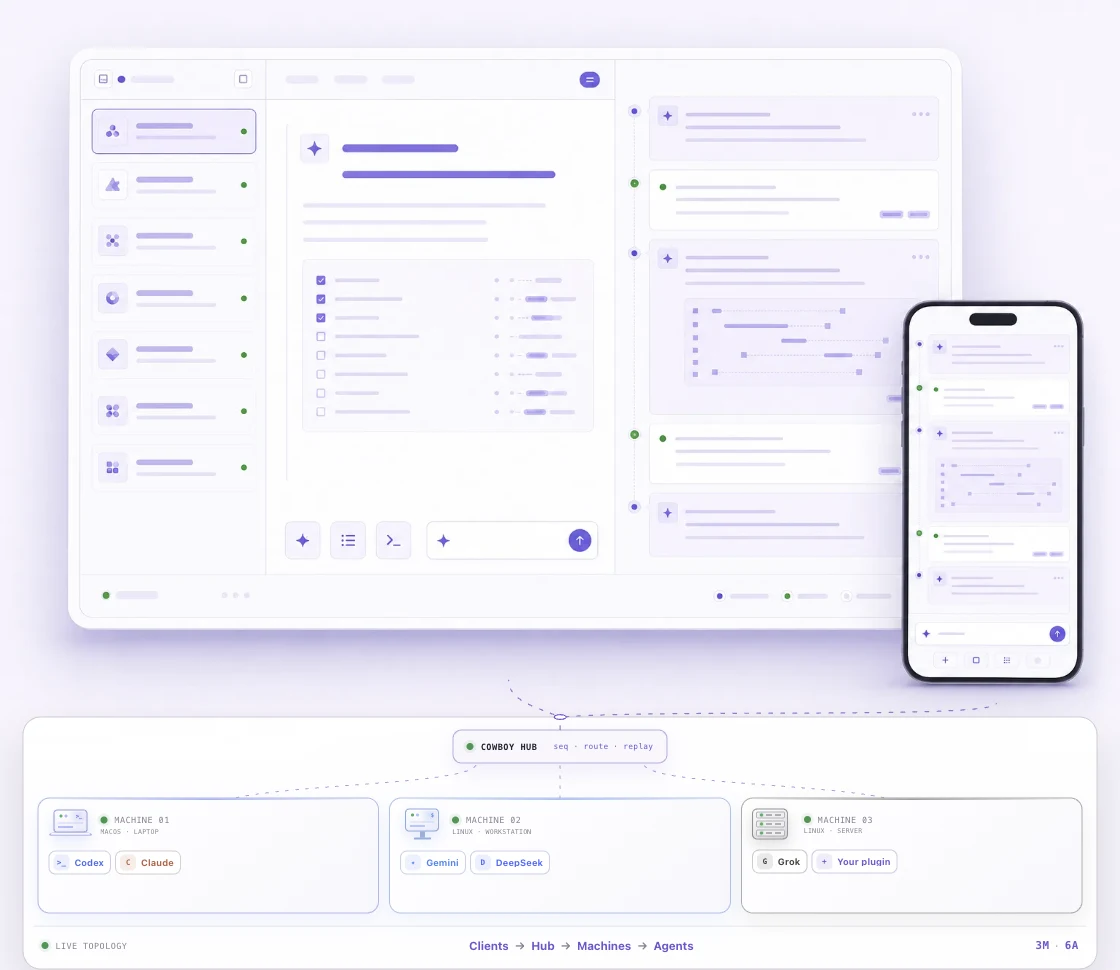
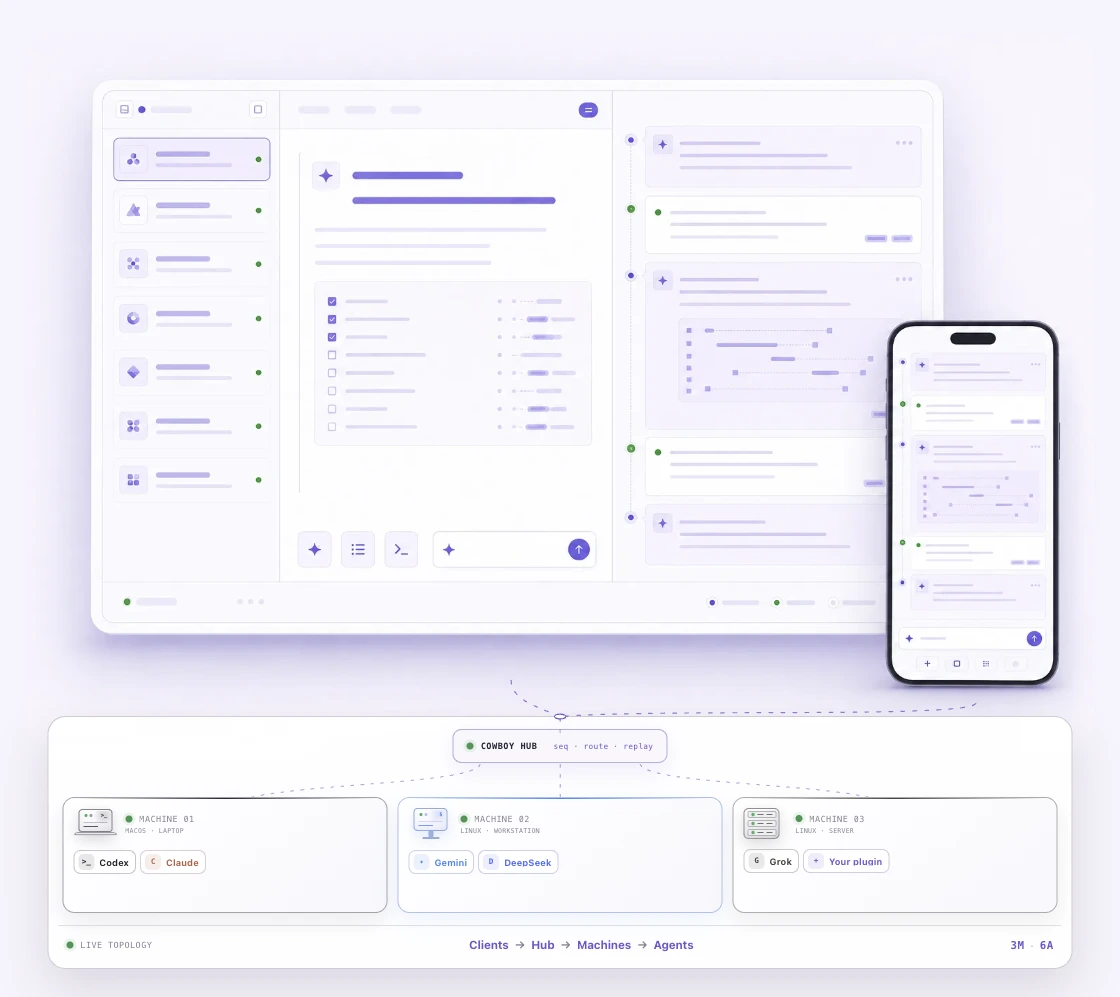
fix(site): refine hero and provider identity

diff --git a/site/styles.css b/site/styles.css
@@ -44,6 +44,7 @@
     hue-rotate(-5deg) drop-shadow(0 6px 8px rgba(69, 48, 178, 0.24));
   --brand-filter-peak: saturate(1.42) contrast(1.08) brightness(1.12)
     hue-rotate(5deg) drop-shadow(0 9px 14px rgba(60, 95, 235, 0.34));
+  --codex-accent: #29252f;
   --shell: 1280px;
   --radius-sm: 10px;
   --radius-md: 16px;
@@ -100,6 +101,7 @@ html[data-theme="dark"] {
     hue-rotate(-2deg) drop-shadow(0 7px 12px rgba(115, 84, 255, 0.46));
   --brand-filter-peak: saturate(1.52) contrast(1.04) brightness(1.28)
     hue-rotate(8deg) drop-shadow(0 10px 18px rgba(67, 159, 255, 0.55));
+  --codex-accent: #f0ecf8;
 }
 
 *,
@@ -663,10 +665,10 @@ kbd {
 
 .hero {
   display: grid;
-  grid-template-columns: minmax(380px, 0.82fr) minmax(620px, 1.48fr);
-  gap: 70px;
-  align-items: center;
-  padding-top: 108px;
+  grid-template-columns: minmax(510px, 0.95fr) minmax(0, 1.25fr);
+  gap: 42px;
+  align-items: start;
+  padding-top: 96px;
   padding-bottom: 62px;
 }
 
@@ -703,7 +705,7 @@ kbd {
 .hero h1 {
   max-width: 720px;
   margin: 0;
-  font-size: clamp(3.4rem, 5.25vw, 5.85rem);
+  font-size: clamp(3.75rem, 4.2vw, 4.45rem);
   font-weight: 670;
   letter-spacing: -0.065em;
   line-height: 0.94;
@@ -858,7 +860,7 @@ html[data-theme="dark"] .button-primary {
   position: relative;
   z-index: 1;
   min-width: 0;
-  padding-top: 46px;
+  padding-top: 16px;
 }
 
 .hero-product::before {
@@ -1340,7 +1342,7 @@ html[data-theme="dark"] .theme-art {
 }
 
 .control-machine-codex {
-  --node-accent: #4f6bed;
+  --node-accent: var(--codex-accent);
 }
 
 .control-machine-claude {
@@ -1403,7 +1405,7 @@ html[data-theme="dark"] .theme-art {
 }
 
 .control-agent-codex {
-  color: #4f6bed;
+  color: var(--codex-accent);
 }
 
 .control-agent-claude {
@@ -2207,6 +2209,21 @@ html[data-theme="dark"] .control-machine {
   margin-top: 28px;
 }
 
+.lifecycle-icon > svg {
+  width: 48px;
+  height: 42px;
+  overflow: visible;
+  fill: none;
+  stroke: var(--primary);
+  stroke-linecap: round;
+  stroke-linejoin: round;
+  stroke-width: 1.65;
+}
+
+.lifecycle-icon .lifecycle-icon-surface {
+  fill: var(--primary-wash);
+}
+
 .lifecycle-icon > i {
   position: absolute;
   width: 34px;
@@ -2231,28 +2248,6 @@ html[data-theme="dark"] .control-machine {
   top: 14px;
   left: 12px;
   opacity: 0.3;
-}
-
-.lifecycle-sign > i {
-  top: 2px;
-  left: 5px;
-  width: 30px;
-  height: 30px;
-  transform: rotate(45deg);
-  border-radius: 7px;
-  background: var(--primary-wash);
-}
-
-.lifecycle-sign::after {
-  position: absolute;
-  top: 10px;
-  left: 15px;
-  width: 10px;
-  height: 17px;
-  transform: rotate(42deg);
-  border-right: 2px solid var(--primary);
-  border-bottom: 2px solid var(--primary);
-  content: "";
 }
 
 .lifecycle-catalog > i {
@@ -2294,25 +2289,6 @@ html[data-theme="dark"] .control-machine {
   border-radius: 50%;
   background: var(--success);
   opacity: 1;
-}
-
-.lifecycle-run > i {
-  top: 2px;
-  left: 3px;
-  width: 36px;
-  height: 36px;
-  border-radius: 50%;
-  background: var(--primary-wash);
-}
-
-.lifecycle-run::after {
-  position: absolute;
-  top: 12px;
-  left: 18px;
-  border-top: 8px solid transparent;
-  border-bottom: 8px solid transparent;
-  border-left: 12px solid var(--primary);
-  content: "";
 }
 
 .contract-grid {
@@ -2653,7 +2629,7 @@ html[data-theme="dark"] .control-machine {
 }
 
 .topology-machines article:nth-child(1) {
-  --node-accent: #4f6bed;
+  --node-accent: var(--codex-accent);
 }
 
 .topology-machines article:nth-child(2) {

diff --git a/site/build_test.ts b/site/build_test.ts
@@ -74,6 +74,11 @@ Deno.test("website catalog follows every first-party Plugin manifest", async () 
     );
   }
 
+  const codex = plugins.find((plugin) => plugin.id === "codex");
+  assert(codex, "Codex should remain in the website catalog");
+  assertEquals(codex.accentLight, "#29252F", "Codex light website accent");
+  assertEquals(codex.accentDark, "#F0ECF8", "Codex dark website accent");
+
   assertEquals(
     [...plugins].map((plugin) => plugin.id).sort().join(","),
     manifests.map((manifest) => manifest.id).sort().join(","),
@@ -341,6 +346,29 @@ Deno.test("website build produces a complete self-contained Pages artifact", asy
         html.includes("Keyboard controls everything") &&
         !html.includes("Example Cowboy desktop commands"),
       "Desktop should present one Vim-like keyboard promise without shortcut trivia",
+    );
+    assert(
+      (html.match(/class="lifecycle-icon-surface"/gu) ?? []).length === 2 &&
+        html.includes(
+          'class="lifecycle-icon lifecycle-sign" aria-hidden="true"',
+        ) &&
+        html.includes(
+          'class="lifecycle-icon lifecycle-run" aria-hidden="true"',
+        ) &&
+        styles.includes(".lifecycle-icon > svg") &&
+        !styles.includes(".lifecycle-sign::after") &&
+        !styles.includes(".lifecycle-run::after"),
+      "Sign and Run should use stable single-SVG lifecycle marks instead of offset CSS fragments",
+    );
+    assert(
+      styles.includes("--codex-accent: #29252f") &&
+        styles.includes("--codex-accent: #f0ecf8") &&
+        styles.includes("--node-accent: var(--codex-accent)") &&
+        styles.includes(
+          ".control-agent-codex {\n  color: var(--codex-accent);",
+        ) &&
+        !styles.includes("#4f6bed"),
+      "every named Codex surface should use the neutral OpenAI palette instead of blue",
     );
     assert(
       html.includes('class="markdown-composer"') &&

diff --git a/site/index.html b/site/index.html
@@ -536,7 +536,13 @@
           </li>
           <li class="reveal" style="--reveal-delay: 60ms">
             <span>02</span>
-            <div class="lifecycle-icon lifecycle-sign"><i></i></div>
+            <div class="lifecycle-icon lifecycle-sign" aria-hidden="true">
+              <svg viewBox="0 0 48 42">
+                <path class="lifecycle-icon-surface" d="M10 3.5h19l8 8v22a4.5 4.5 0 0 1-4.5 4.5h-22A4.5 4.5 0 0 1 6 33.5V8a4.5 4.5 0 0 1 4-4.5Z"></path>
+                <path d="M29 3.5v8h8"></path>
+                <path d="m14.5 23 5 5 12-12"></path>
+              </svg>
+            </div>
             <strong data-i18n="lifecycle.sign">Sign</strong>
             <p data-i18n="lifecycle.signBody">Publisher identity, contract fingerprint, and every runtime artifact are bound.</p>
           </li>
@@ -554,7 +560,13 @@
           </li>
           <li class="reveal" style="--reveal-delay: 240ms">
             <span>05</span>
-            <div class="lifecycle-icon lifecycle-run"><i></i></div>
+            <div class="lifecycle-icon lifecycle-run" aria-hidden="true">
+              <svg viewBox="0 0 48 42">
+                <rect class="lifecycle-icon-surface" x="3.5" y="5.5" width="41" height="31" rx="7"></rect>
+                <path d="m13 16 6 5-6 5"></path>
+                <path d="M24 27h10"></path>
+              </svg>
+            </div>
             <strong data-i18n="lifecycle.run">Run</strong>
             <p data-i18n="lifecycle.runBody">Sessions stay pinned to the exact installed release until an explicit change.</p>
           </li>

diff --git a/site/build.ts b/site/build.ts
@@ -69,6 +69,13 @@ const PLUGIN_ORDER = [
   "zed",
 ];
 
+const WEBSITE_PROVIDER_ACCENTS: Partial<
+  Record<string, { light: string; dark: string }>
+> = {
+  codex: { light: "#29252F", dark: "#F0ECF8" },
+  grok: { light: "#44403C", dark: "#E8E4DC" },
+};
+
 const CODE_INTELLIGENCE_PRESENTATION: Record<
   string,
   Omit<
@@ -254,8 +261,9 @@ export async function loadSitePlugins(root: string): Promise<SitePlugin[]> {
 
     const display = provider.display;
     const accent = assertHexColor(display.accent, `${manifest.id} accent`);
-    const accentLight = manifest.id === "grok" ? "#44403C" : accent;
-    const accentDark = manifest.id === "grok" ? "#E8E4DC" : accent;
+    const websiteAccent = WEBSITE_PROVIDER_ACCENTS[manifest.id];
+    const accentLight = websiteAccent?.light ?? accent;
+    const accentDark = websiteAccent?.dark ?? accent;
 
     return {
       ...shared,
